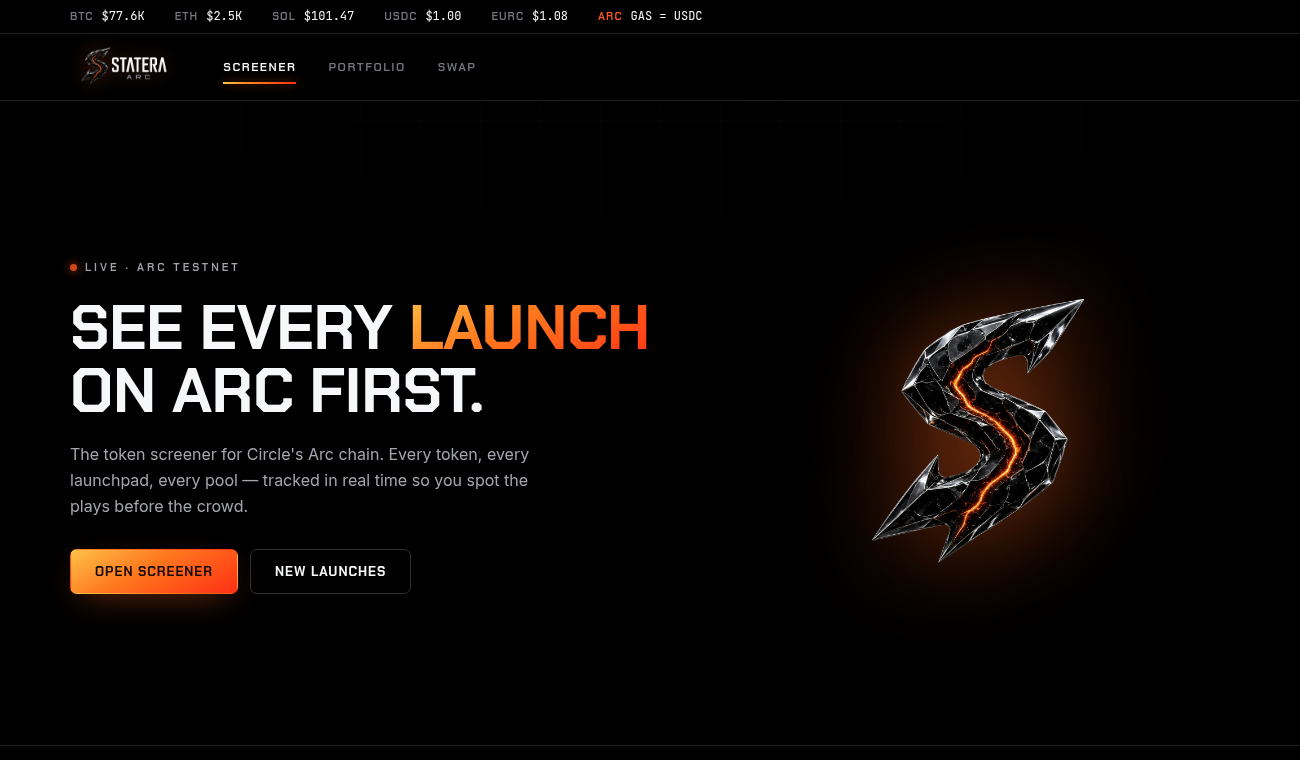
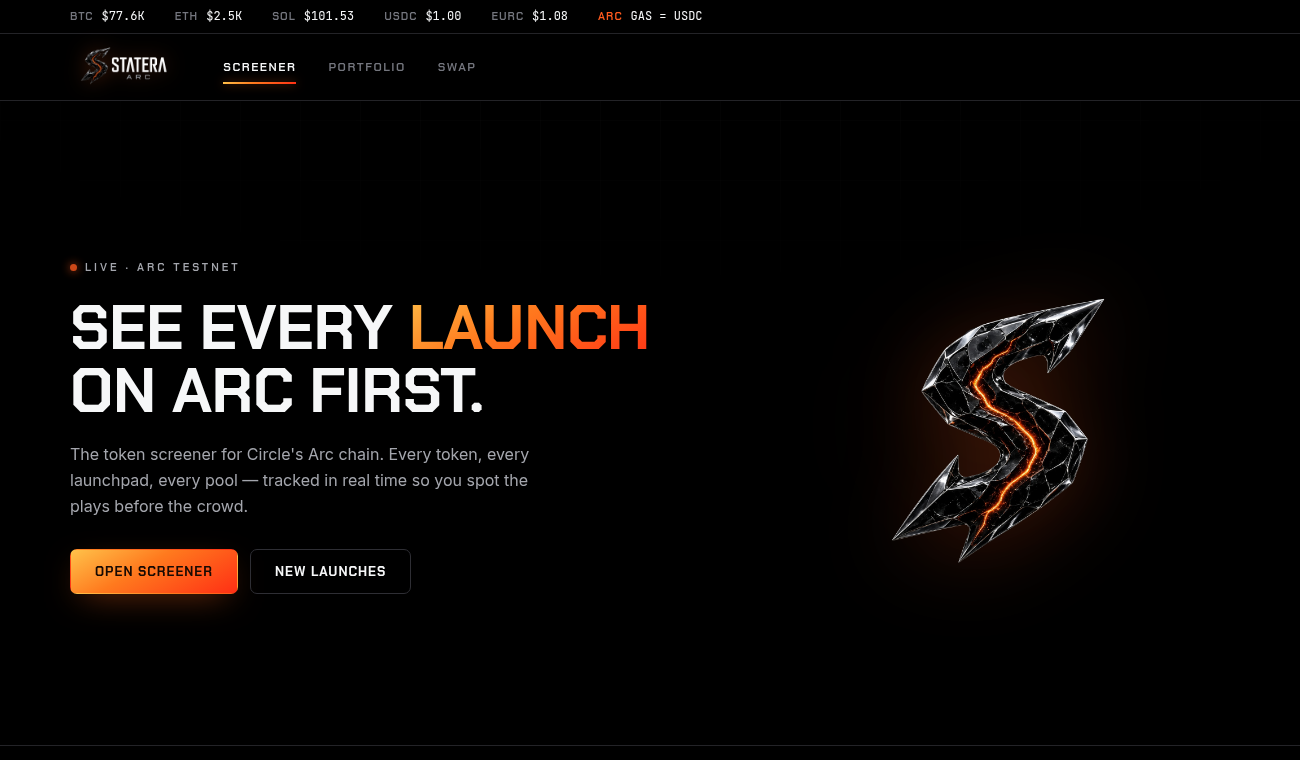
statera: hero glow balanced + S ~30% bigger
Pure-black backdrop; a subtle contained warm halo behind the S (low alpha, blurred)
so it's not dead-flat but not a splotch. S sized up ~30% (min 800px/140%).

Changed region(s): [[0.6769, 0.3934, 0.8615, 0.7263]]

diff --git a/src/index.css b/src/index.css
@@ -24,8 +24,7 @@ img { max-width: 100%; display: block; }
 ::selection { background: var(--red); color: #fff; }
 
 /* fixed backdrop */
-.backdrop { position: fixed; inset: 0; z-index: 0; pointer-events: none; background: #000;
-  background-image: radial-gradient(120% 70% at 50% -20%, rgba(255,255,255,.02), transparent 55%); }
+.backdrop { position: fixed; inset: 0; z-index: 0; pointer-events: none; background: #000; }
 .backdrop::after { content: ''; position: absolute; inset: 0;
   background-image: linear-gradient(rgba(255,255,255,.014) 1px, transparent 1px), linear-gradient(90deg, rgba(255,255,255,.014) 1px, transparent 1px);
   background-size: 60px 60px; mask-image: radial-gradient(ellipse 80% 50% at 50% 0%, #000 20%, transparent 80%); }
@@ -68,11 +67,10 @@ img { max-width: 100%; display: block; }
 .hero p.lede { color: var(--gray); font-size: 16px; line-height: 1.6; max-width: 500px; margin: 20px 0 30px; }
 .hero-cta { display: flex; gap: 12px; flex-wrap: wrap; }
 .hero-visual { position: relative; display: grid; place-items: center; min-height: 520px; perspective: 1100px; }
-.hero-visual::before { content: ''; position: absolute; width: 62%; height: 62%; border-radius: 50%;
-  background: radial-gradient(circle, rgba(255,120,45,.18), rgba(255,60,20,.06) 46%, transparent 70%);
-  filter: blur(46px); z-index: 0; }
-.hero-s { position: relative; z-index: 1; width: min(620px, 110%); height: auto; cursor: grab;
-  filter: drop-shadow(0 6px 50px rgba(255,100,26,.4));
+.hero-visual::before { content: ''; position: absolute; width: 54%; height: 54%; border-radius: 50%;
+  background: radial-gradient(circle, rgba(255,100,40,.11), transparent 62%); filter: blur(52px); z-index: 0; }
+.hero-s { position: relative; z-index: 1; width: min(800px, 140%); height: auto; margin-right: -8%; cursor: grab;
+  filter: drop-shadow(0 10px 42px rgba(255,90,30,.2));
   transform: rotateX(var(--rx, 0deg)) rotateY(var(--ry, 0deg));
   transition: transform .3s cubic-bezier(.2,.7,.2,1); will-change: transform;
   animation: floatY 7s ease-in-out infinite; }
